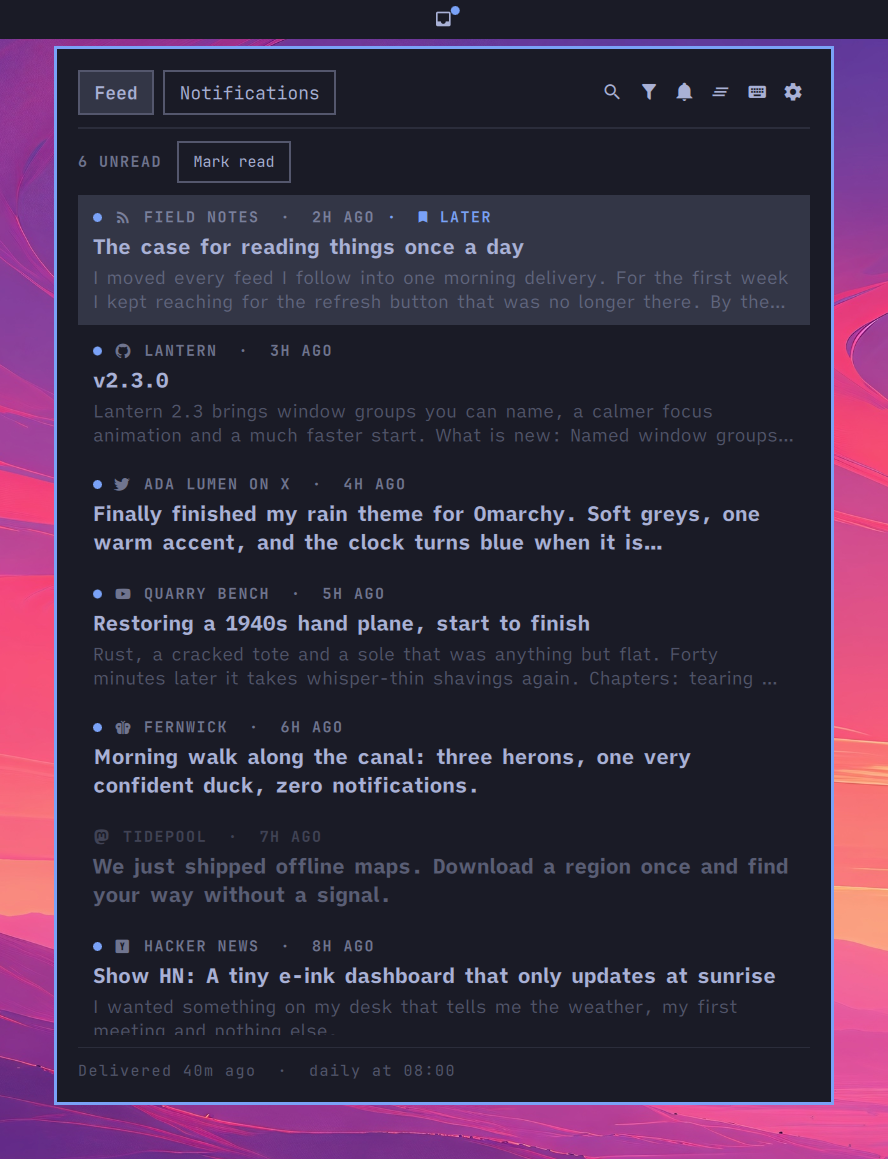
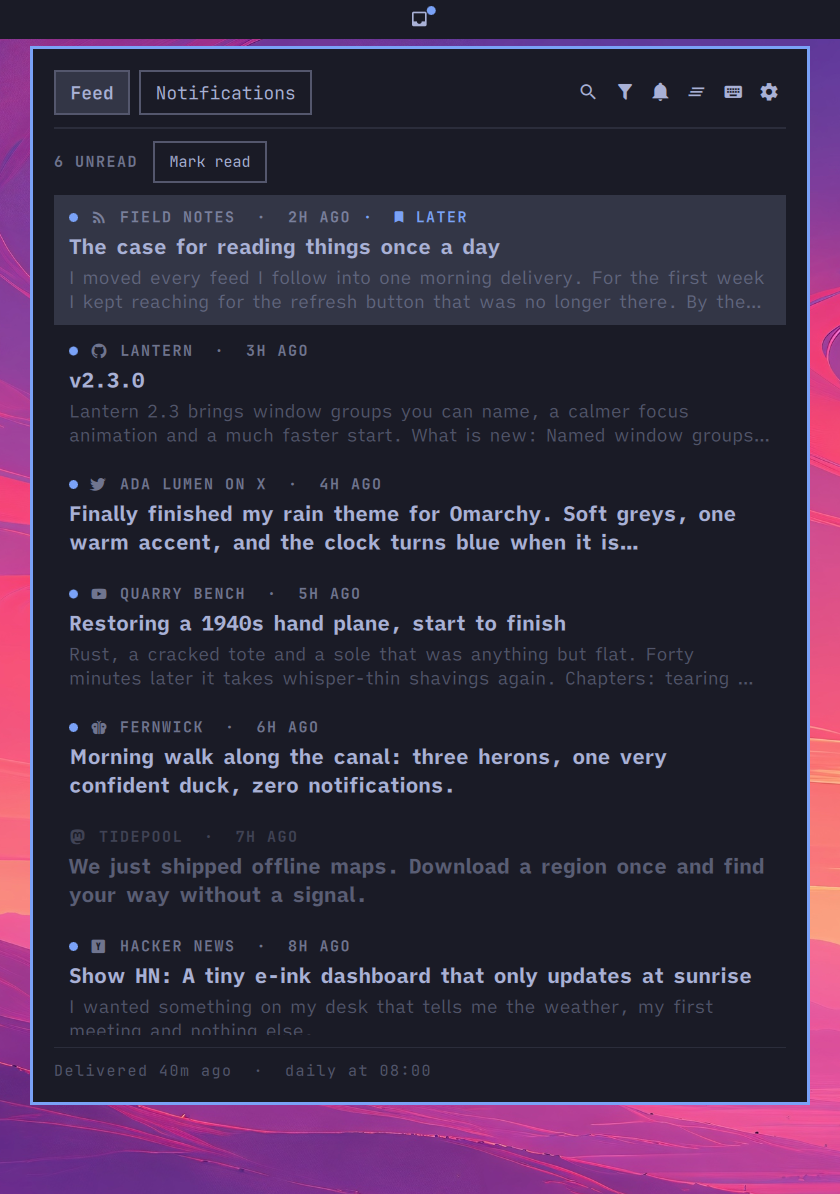
docs: readable, equal-size screenshots in one row

Changed region(s): [[0.0, 0.0, 1.0, 1.0], [0.681, 0.6212, 0.8048, 0.6833]]

diff --git a/README.md b/README.md
@@ -6,9 +6,12 @@ one panel behind one bar icon.
 
 It shows no likes, views or repost counts anywhere, so you read posts for what they say.
 
-| Feed | Notifications | Sources |
-|---|---|---|
-| ![The feed: one delivery, unread posts marked with a dot](docs/screenshots/feed.png) | ![Notifications kept for 7 days](docs/screenshots/notifications.png) | ![Sources, the delivery time and each source's cadence](docs/screenshots/sources.png) |
+<p align="center">
+  <img src="docs/screenshots/feed.png" alt="The feed: one delivery, unread posts marked with a dot" width="32%">
+  <img src="docs/screenshots/notifications.png" alt="Notifications kept for 7 days" width="32%">
+  <img src="docs/screenshots/sources.png" alt="Sources, the delivery time and each source's cadence" width="32%">
+</p>
+<p align="center"><b>Feed</b> · <b>Notifications</b> · <b>Sources</b></p>
 
 Omabox follows your Omarchy theme; these show Tokyo Night, Catppuccin Latte and Everforest. Every post,
 source and notification in the screenshots is made up.
